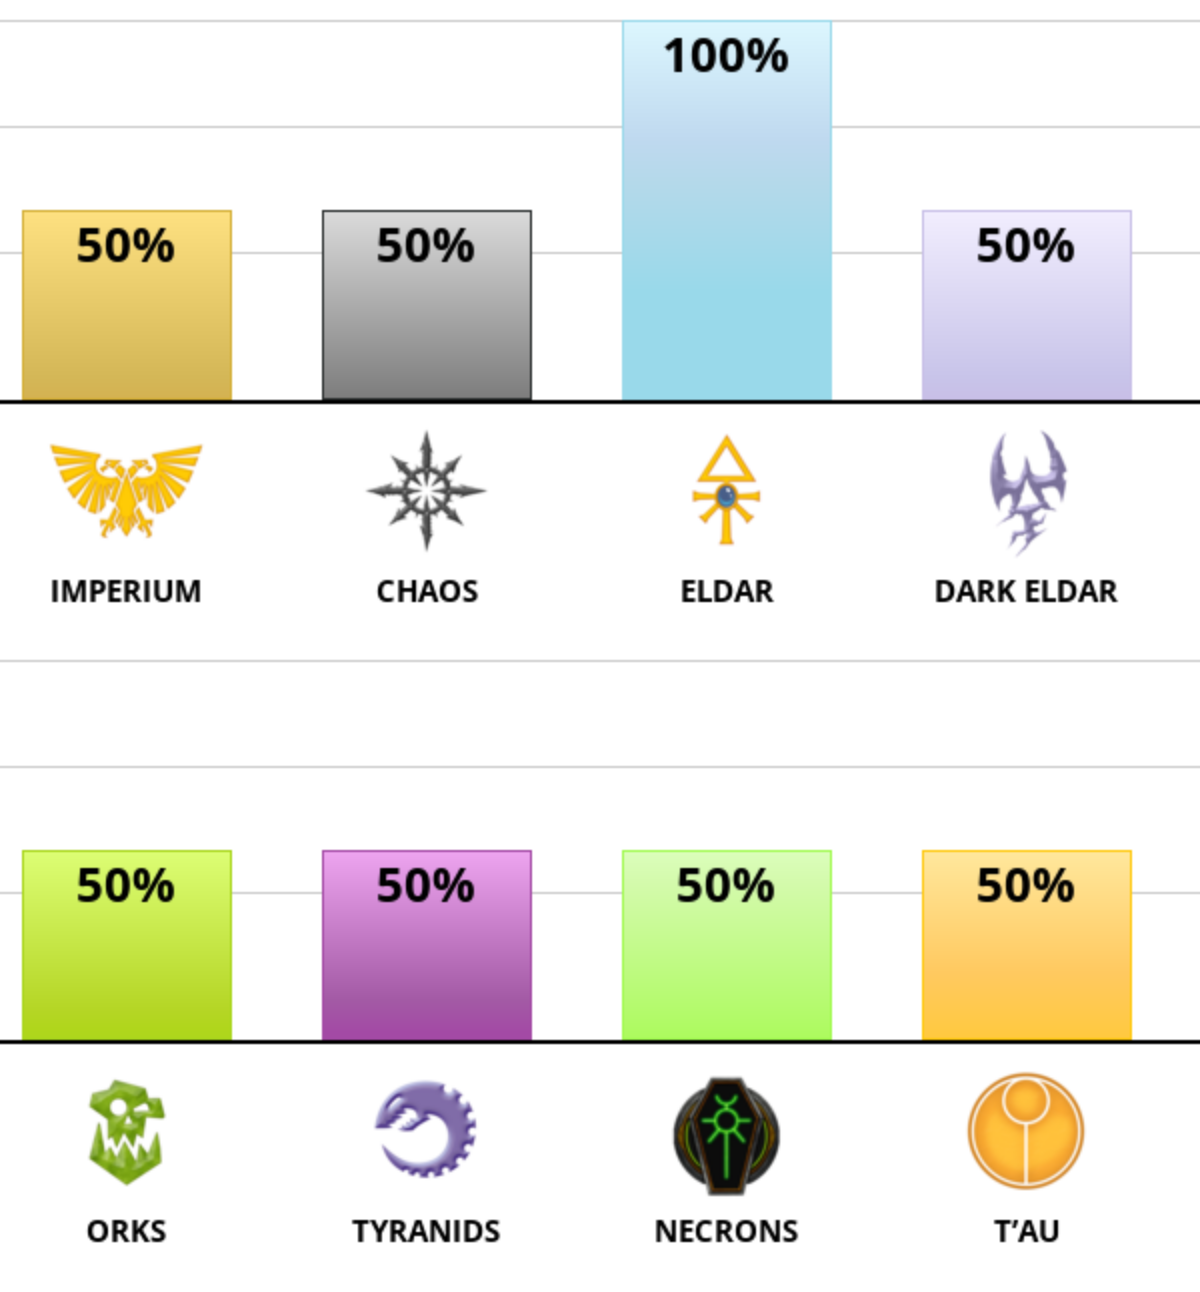
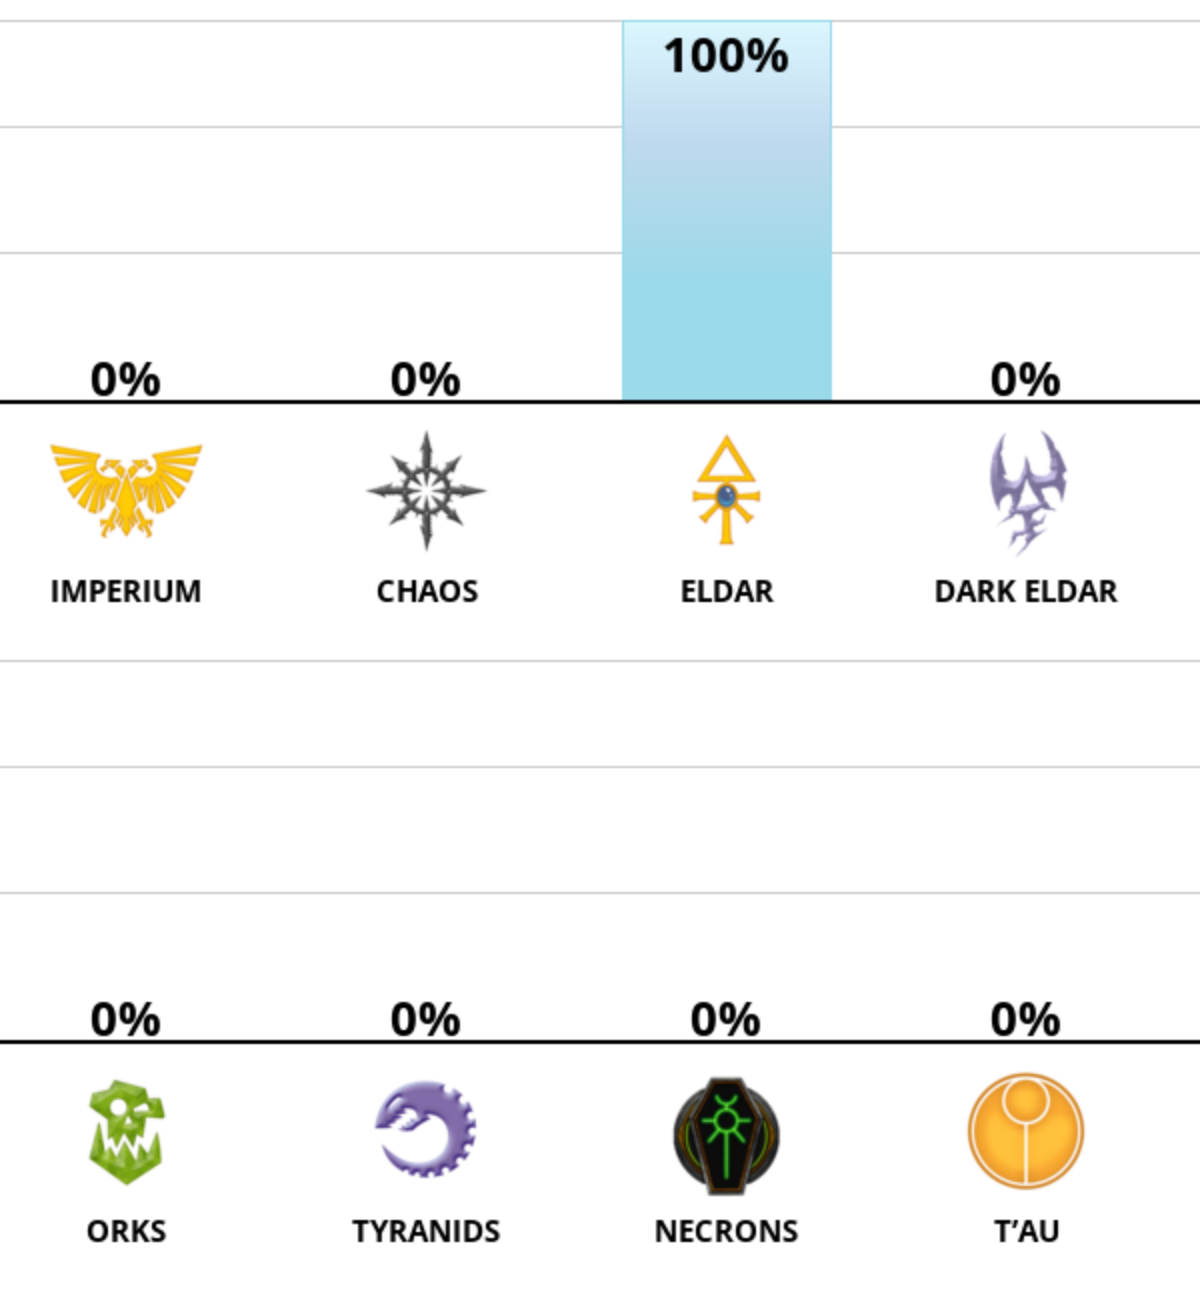
Update Eldar example: Agree on 3 items, Disagree elsewhere for 0% others.

diff --git a/README.md b/README.md
@@ -28,24 +28,25 @@ Full per-answer table: [`out/scoring_table.csv`](out/scoring_table.csv)
 
 ---
 
-## Example: how to get **Eldar (100%)**
+## Example: how to get **Eldar (100%)**, everyone else **0%**
 
-Answer only the Eldar block; leave everything else on **Neutral (3)**.
+Say **Agree** on only **3** Eldar questions; say **Disagree** on **all** remaining questions (including reverse Eldar items and every other faction).
 
 | # | Question | Answer |
 |---|---|---|
 | **11** | I am deeply interested in the study of culture and history. | **5** Agree |
 | **12** | I tend to be suspicious of people I do not know. | **5** Agree |
 | **13** | People are sometimes startled by the keenness of my memory. | **5** Agree |
-| **14** | Philosophical discussions are mostly boring. | **1** Disagree *(reverse)* |
-| **15** | I dislike going to art museums. | **1** Disagree *(reverse)* |
-| *all other questions* | — | **3** Neutral |
+| **14** | Philosophical discussions are mostly boring. | **1** Disagree *(reverse → still boosts Eldar)* |
+| **15** | I dislike going to art museums. | **1** Disagree *(reverse → still boosts Eldar)* |
+| *all other questions* | — | **1** Disagree |
 
-Expected result: **Eldar 100%**, others **50%**.
+Why this zeros the rest: each other faction has 5 items; Disagree on all five = `50 − 5×10 = 0%`.  
+Eldar: Agree on Q11–13 (+30) + Disagree on reverse Q14–15 (+20) = `50 + 50 = 100%`.
 
-![Eldar 100% result chart](docs/images/eldar-result-graphic.png)
+![Eldar 100%, others 0%](docs/images/eldar-result-graphic.png)
 
-Verified live result text: *You are Eldar (100%).*
+Verified live result: *You are Eldar (100%).* Chart query: `p=0,0,100,0,0,0,0,0`.
 
 > Tip: questions are **shuffled** in the UI. Match by question text / internal id, not by “Question 1 of 40”.
 
